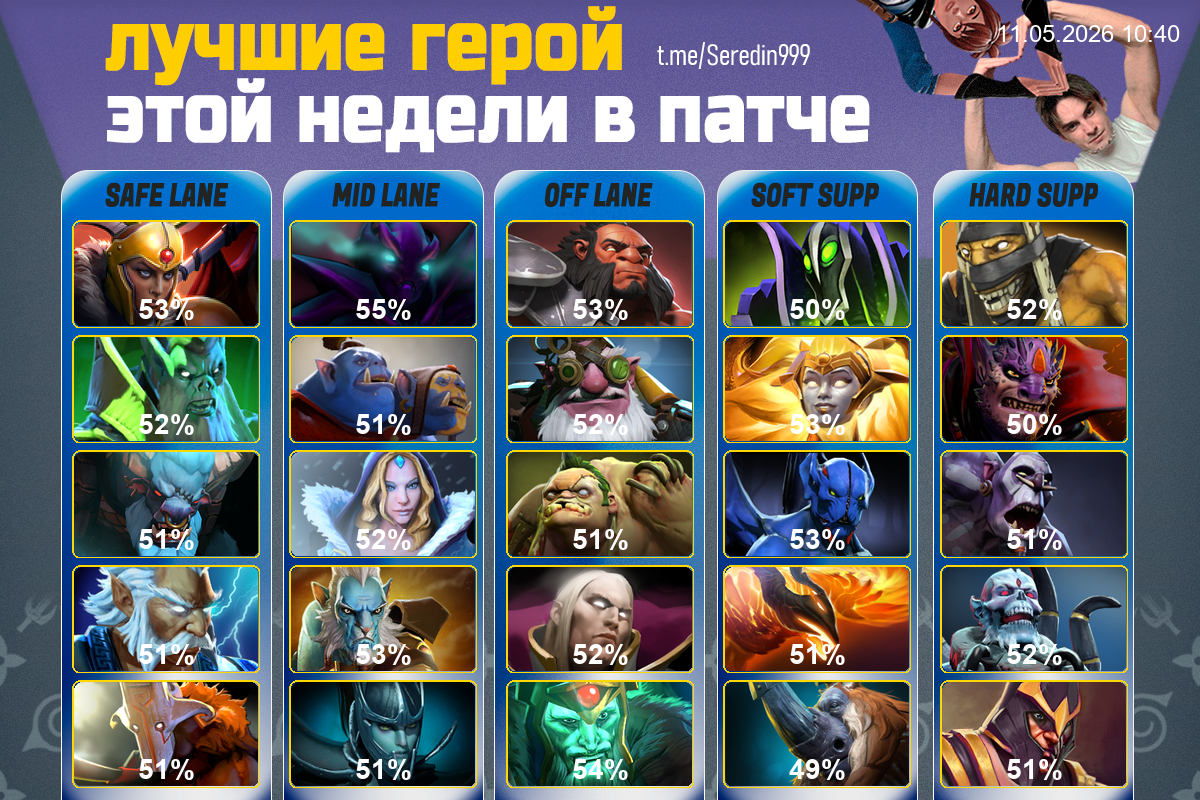
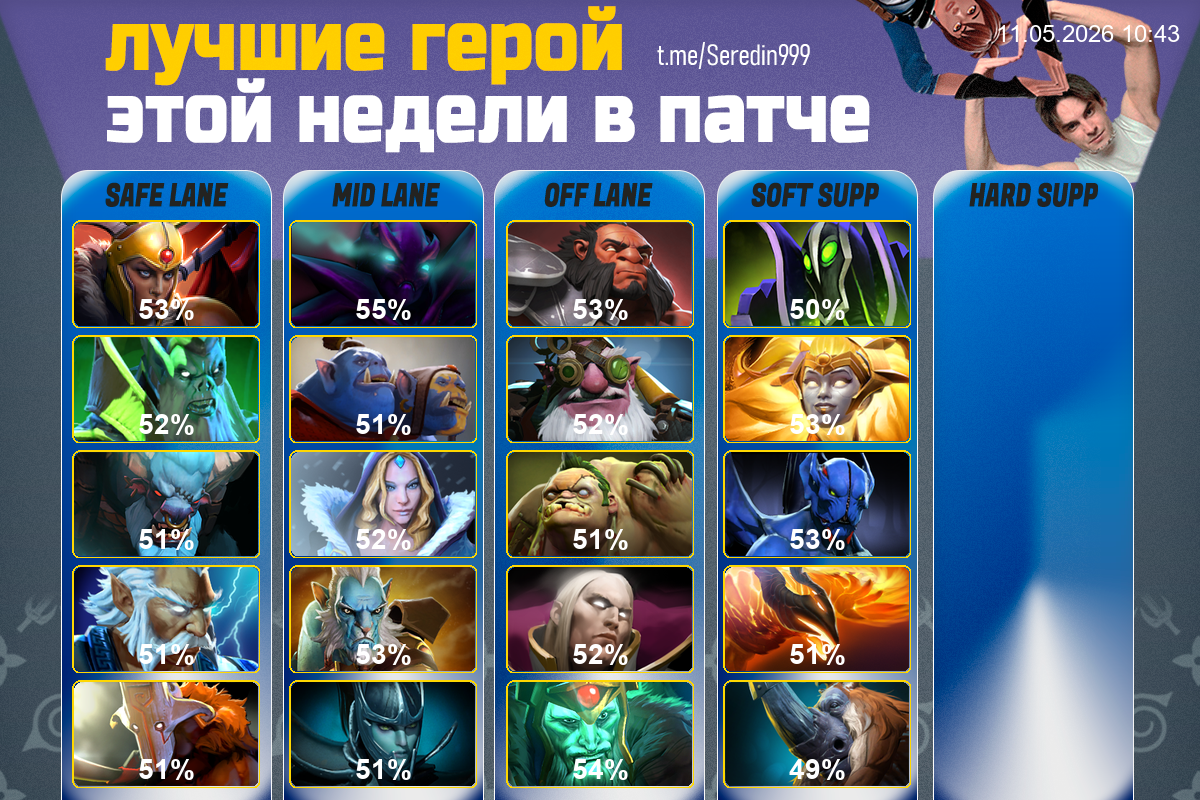
Prioritize hero role detection: Carry > Mid > Offlane > Hard Support > Support

Changed region(s): [[0.7708, 0.25, 0.9558, 1.0]]

diff --git a/hero_meta.py b/hero_meta.py
@@ -70,21 +70,21 @@ def detect_hero_position(hero_data):
             best_score = score
             best_pos = pos
 
-    # Если все позиции имеют 0 пиков, используем роли из API
+    # Если все позиции имеют 0 пиков, используем роли из API с приоритетом
     if best_score == 0:
-        roles = hero_data.get("roles", [])
-        role_map = {
-            "Carry": 1,
-            "Mid": 2,
-            "Offlane": 3,
-            "Support": 4,
-            "Hard Support": 5,
-            "Soft Support": 4
-        }
-        for role in roles:
-            if role in role_map:
-                best_pos = role_map[role]
-                break
+        roles = set(hero_data.get("roles", []))
+        if "Carry" in roles:
+            best_pos = 1
+        elif "Mid" in roles:
+            best_pos = 2
+        elif "Offlane" in roles:
+            best_pos = 3
+        elif "Hard Support" in roles:
+            best_pos = 5
+        elif "Support" in roles or "Soft Support" in roles:
+            best_pos = 4
+        else:
+            best_pos = 1  # default
 
     return best_pos
 
@@ -245,7 +245,7 @@ def _build_grid(hero_stats):
         2: ["Mid"],
         3: ["Offlane"],
         4: ["Support", "Soft Support"],
-        5: ["Support", "Hard Support"]
+        5: ["Hard Support"]
     }
 
     for pos in range(1, 6):
